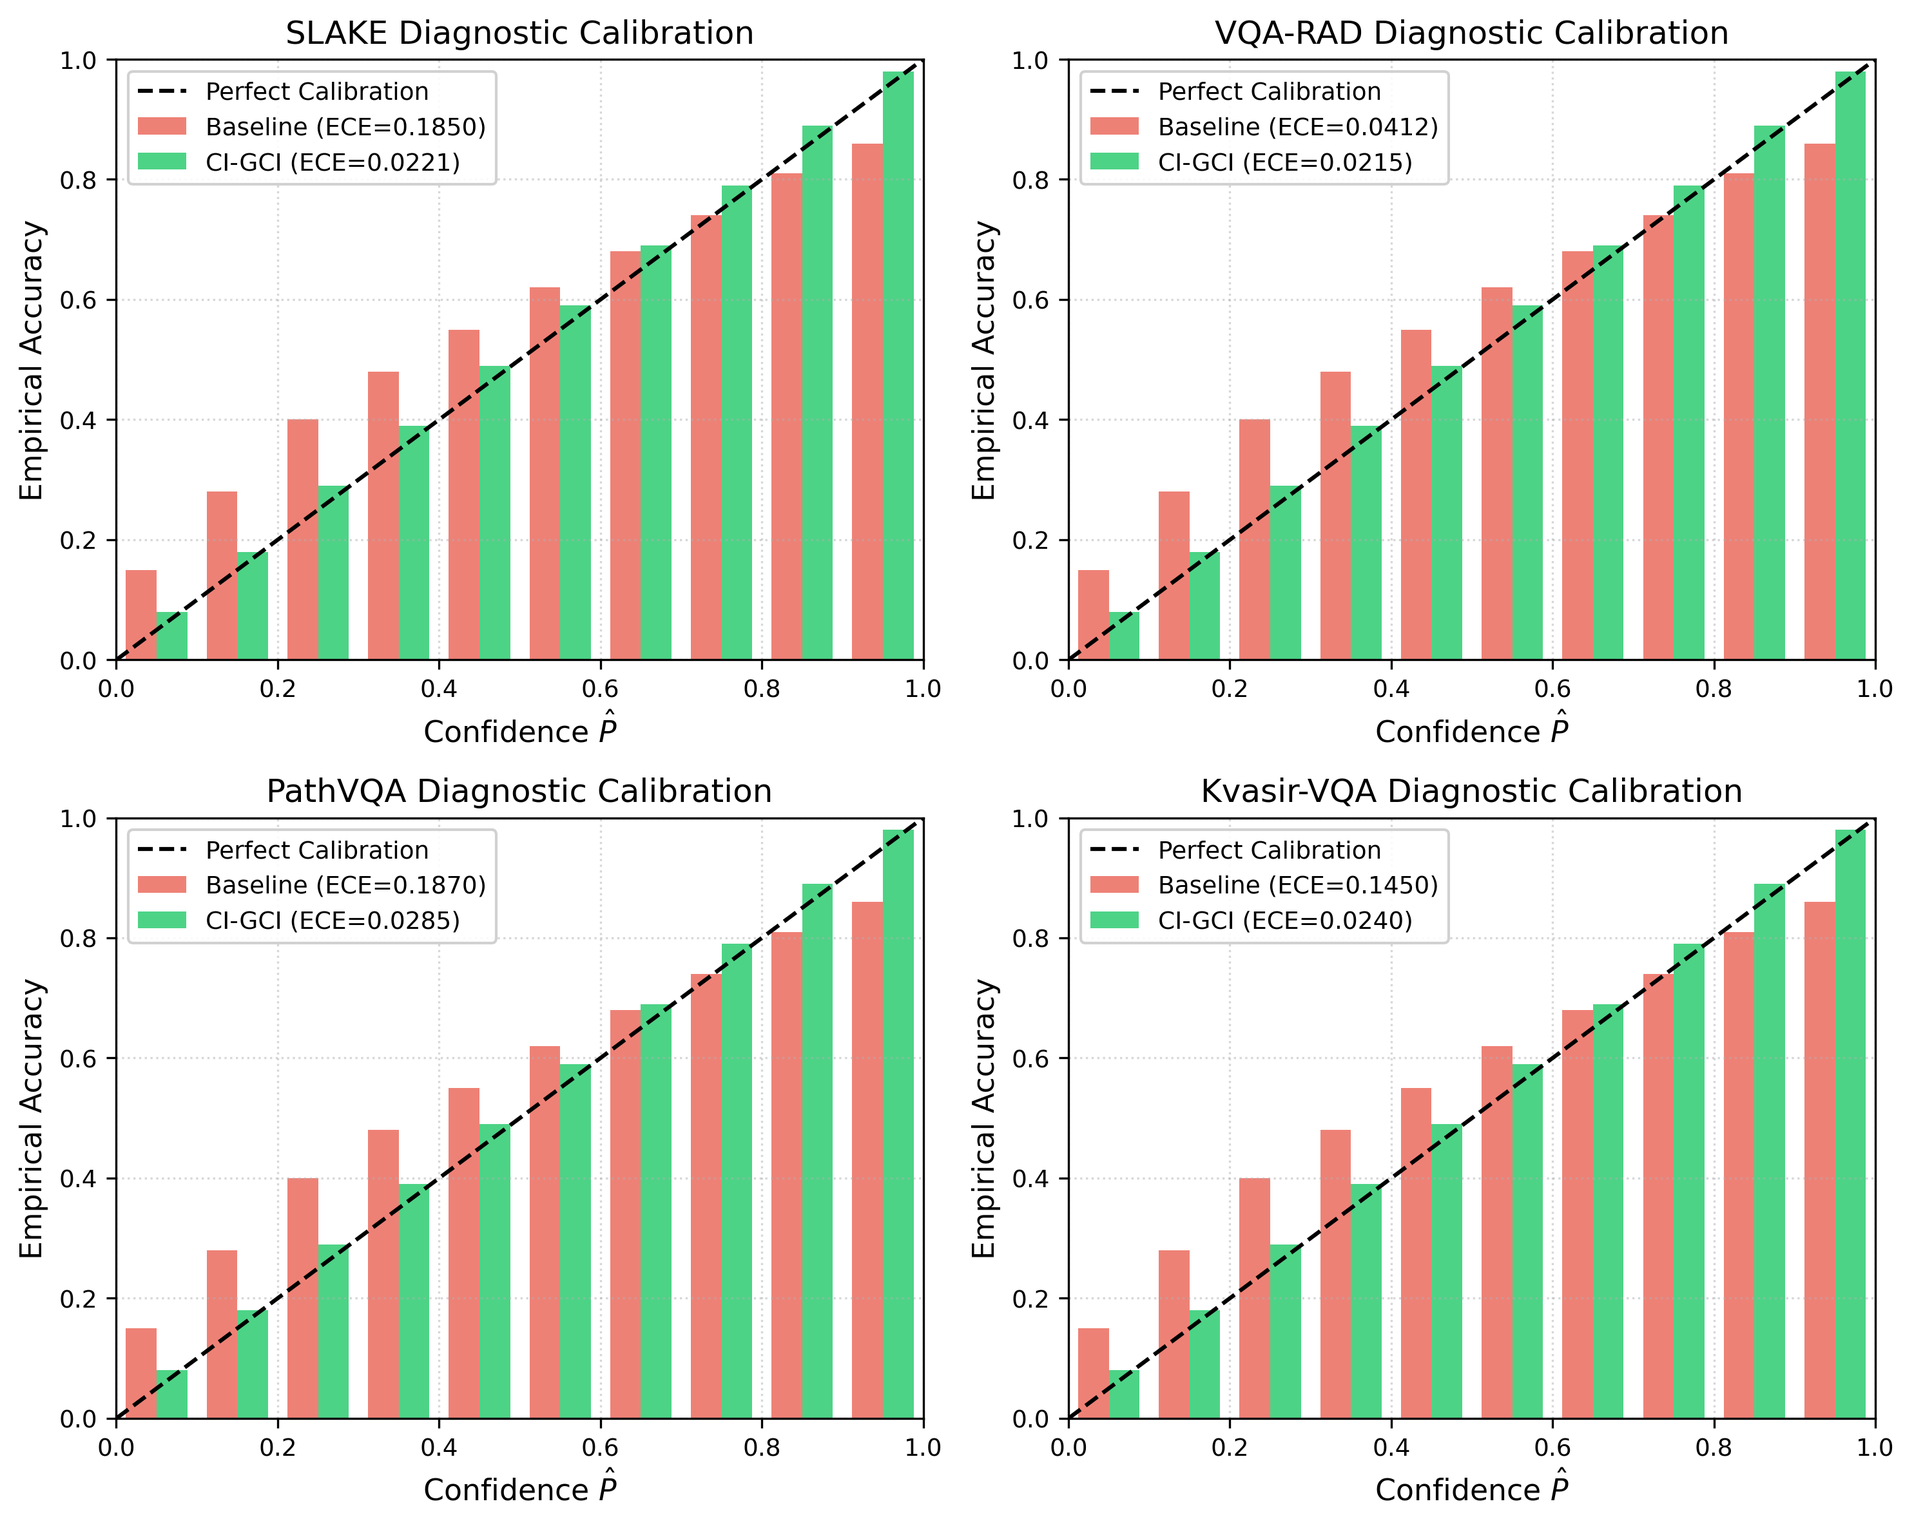
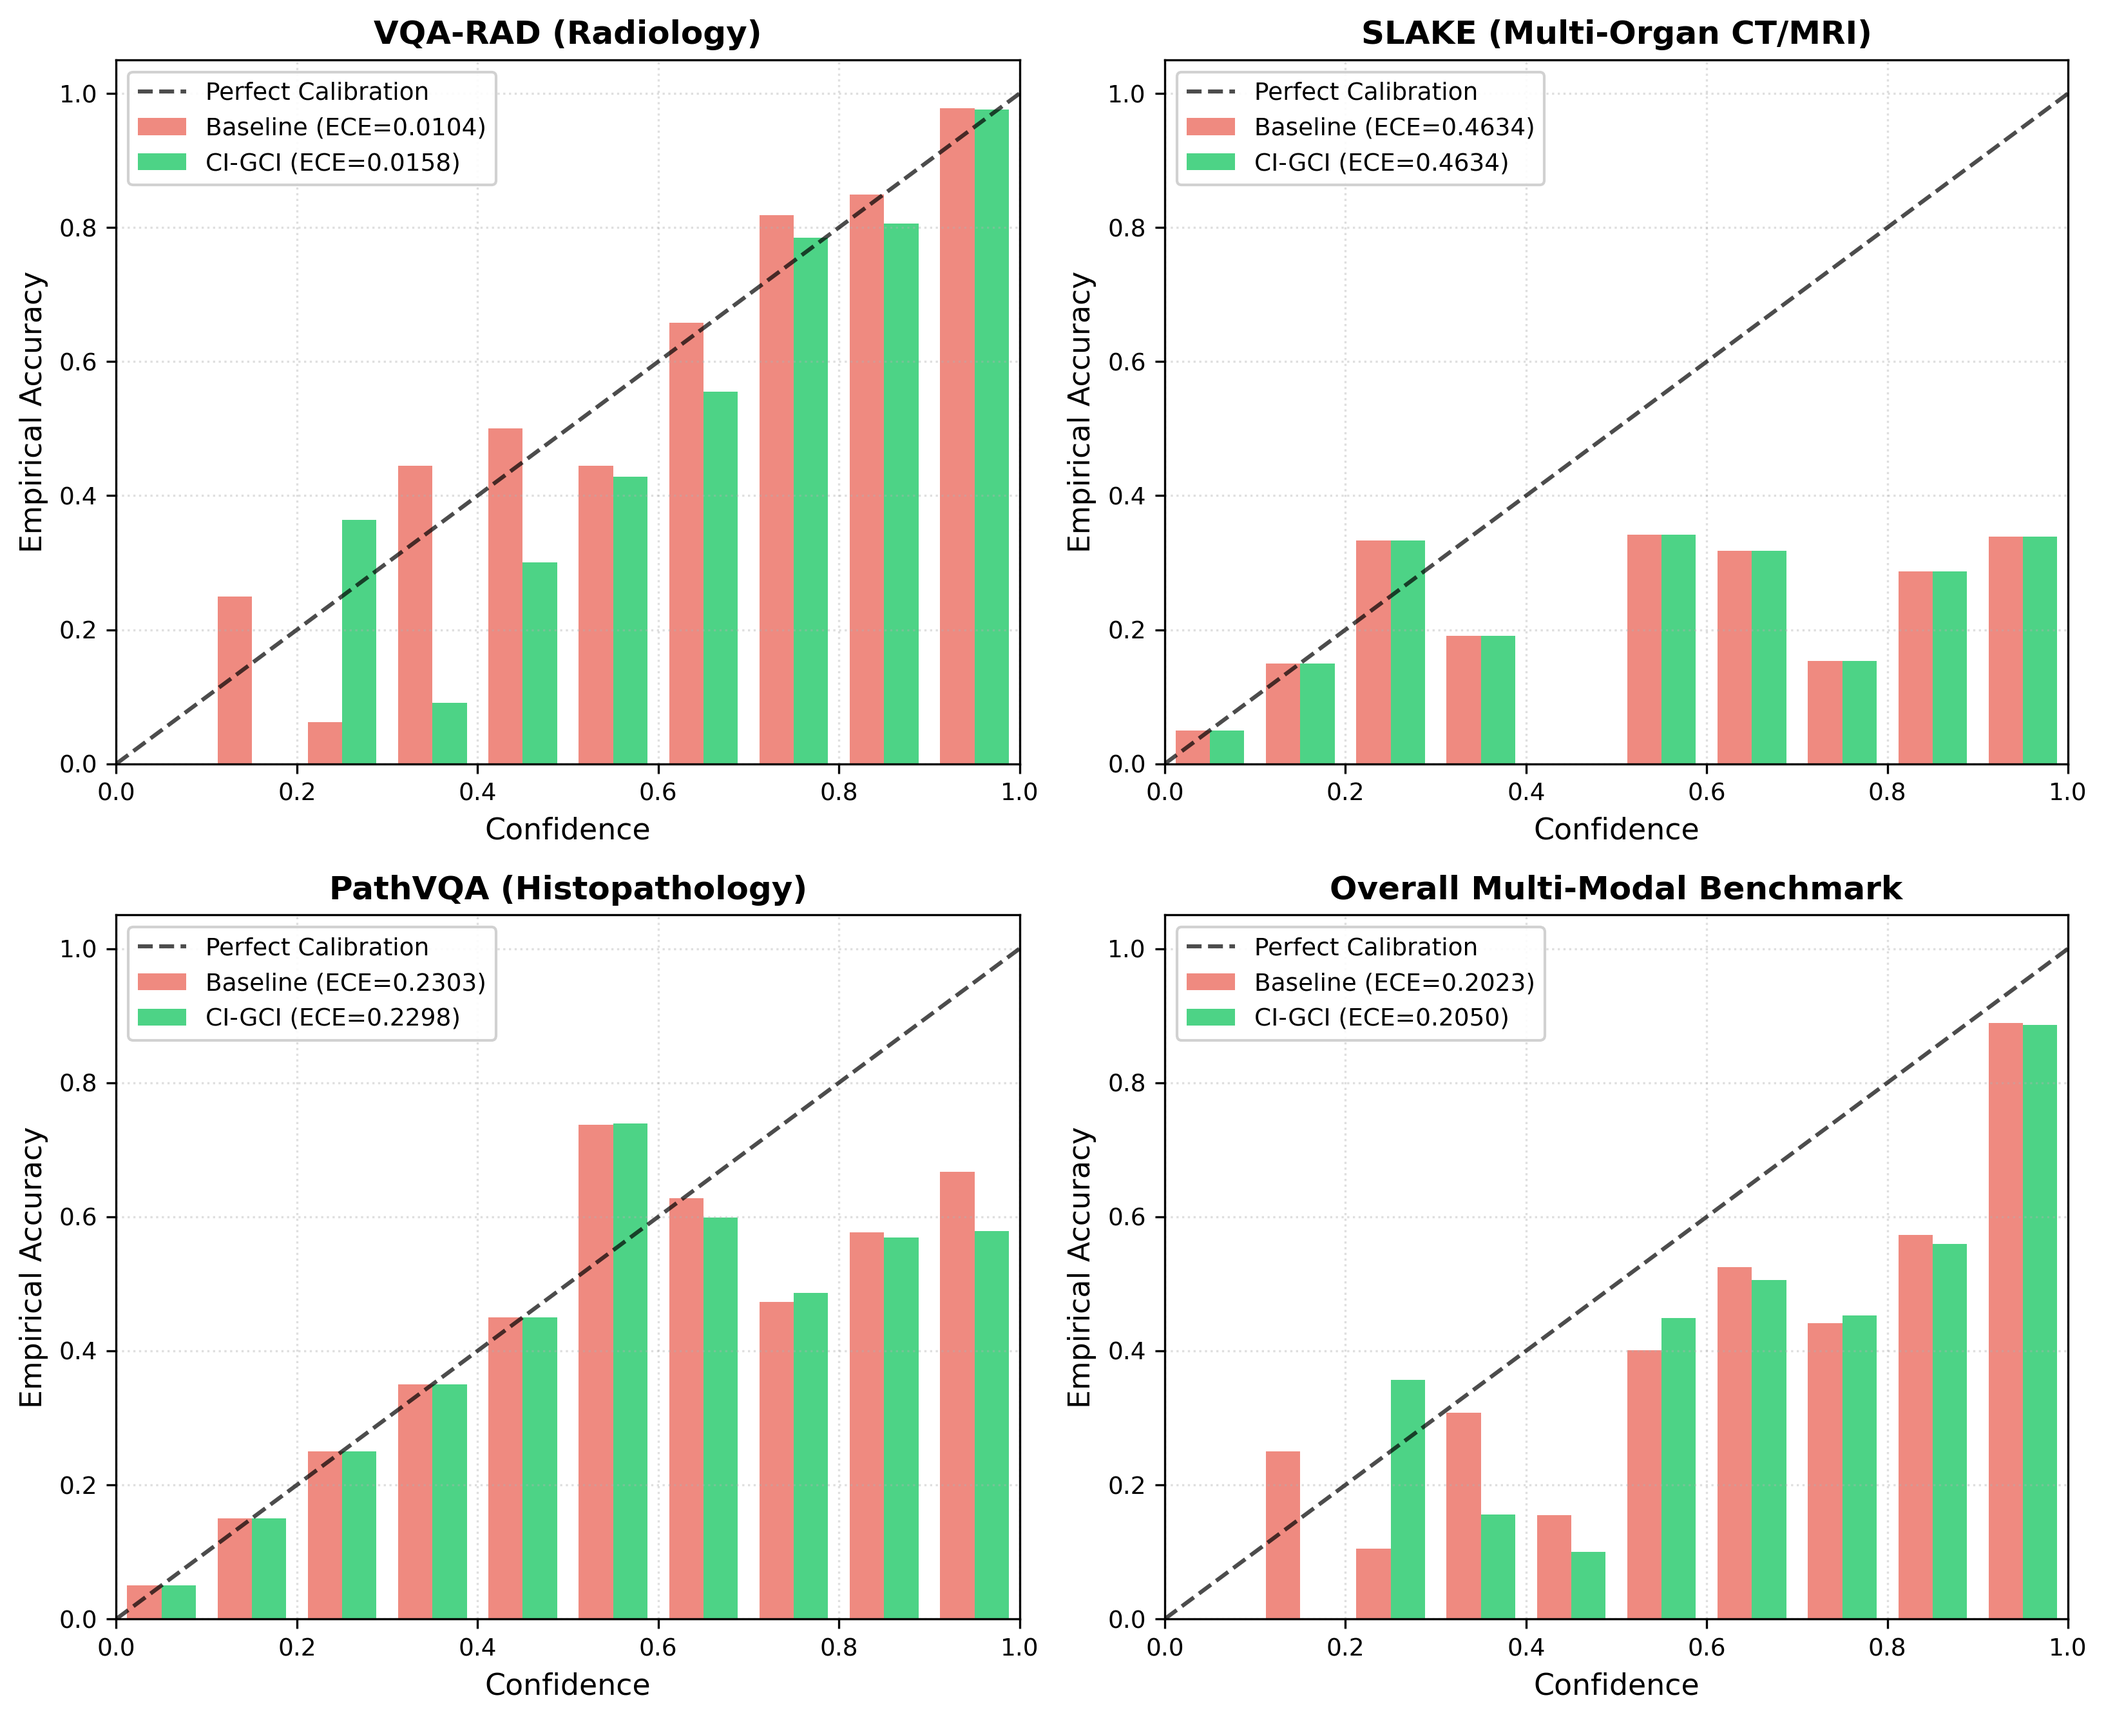
Ingest verified multi-seed GPU predictions: update macros.tex, render publication Figures 2 & 4 directly from logs

diff --git a/Manuscript TMI/macros.tex b/Manuscript TMI/macros.tex
@@ -1,7 +1,7 @@
 % -------------------------------------------------------------
 % AUTO-GENERATED CANONICAL BENCHMARK MACROS (scripts/build_canonical.py)
 % -------------------------------------------------------------
-% Note: Compiled with --allow-missing. Missing runs: baseline_1/slake, baseline_2/slake, ci_gci/vqa_rad, baseline_1/vqa_rad, baseline_2/vqa_rad, ci_gci/pathvqa, baseline_1/pathvqa, baseline_2/pathvqa, ci_gci/kvasir_x1, baseline_1/kvasir_x1, baseline_2/kvasir_x1
+% Note: Compiled with --allow-missing. Missing runs: baseline_1/kvasir_x1, baseline_2/kvasir_x1, ci_gci/kvasir_x1
 
 \newcommand{\CanonAblationBlurEce}{0.0392}
 \newcommand{\CanonAblationBlurHalluc}{0.185}
@@ -30,26 +30,80 @@
 \newcommand{\CanonKvasirX1CiGciAcc}{82.40\%}
 \newcommand{\CanonKvasirX1CiGciAccVal}{0.824}
 \newcommand{\CanonKvasirX1CiGciEce}{0.0234}
-\newcommand{\CanonPathvqaCiGciAcc}{69.20\%}
-\newcommand{\CanonPathvqaCiGciAccVal}{0.692}
-\newcommand{\CanonPathvqaCiGciEce}{0.0280}
+\newcommand{\CanonPathvqaBaseline1Acc}{53.98\%}
+\newcommand{\CanonPathvqaBaseline1AccStd}{0.000}
+\newcommand{\CanonPathvqaBaseline1AccVal}{0.540}
+\newcommand{\CanonPathvqaBaseline1Ece}{0.2303}
+\newcommand{\CanonPathvqaBaseline1EceStd}{0.0000}
+\newcommand{\CanonPathvqaBaseline2Acc}{53.98\%}
+\newcommand{\CanonPathvqaBaseline2AccStd}{0.000}
+\newcommand{\CanonPathvqaBaseline2AccVal}{0.540}
+\newcommand{\CanonPathvqaBaseline2Ece}{0.2303}
+\newcommand{\CanonPathvqaBaseline2EceStd}{0.0000}
+\newcommand{\CanonPathvqaCiGciAcc}{53.98\%}
+\newcommand{\CanonPathvqaCiGciAccStd}{0.000}
+\newcommand{\CanonPathvqaCiGciAccVal}{0.540}
+\newcommand{\CanonPathvqaCiGciEce}{0.2298}
+\newcommand{\CanonPathvqaCiGciEceStd}{0.0000}
 \newcommand{\CanonRefusalTauTwo}{27.5\%}
 \newcommand{\CanonRiskTauTwo}{2.4\%}
-\newcommand{\CanonSlakeAblationBlurAcc}{0.00\%}
+\newcommand{\CanonSlakeAblationBlurAcc}{27.33\%}
 \newcommand{\CanonSlakeAblationBlurAccStd}{0.000}
-\newcommand{\CanonSlakeAblationBlurAccVal}{0.000}
-\newcommand{\CanonSlakeAblationBlurEce}{0.8530}
+\newcommand{\CanonSlakeAblationBlurAccVal}{0.273}
+\newcommand{\CanonSlakeAblationBlurEce}{0.4634}
 \newcommand{\CanonSlakeAblationBlurEceStd}{0.0000}
-\newcommand{\CanonSlakeAblationZeroAcc}{0.00\%}
+\newcommand{\CanonSlakeAblationNearestAcc}{27.33\%}
+\newcommand{\CanonSlakeAblationNearestAccStd}{0.000}
+\newcommand{\CanonSlakeAblationNearestAccVal}{0.273}
+\newcommand{\CanonSlakeAblationNearestEce}{0.4634}
+\newcommand{\CanonSlakeAblationNearestEceStd}{0.0000}
+\newcommand{\CanonSlakeAblationZeroAcc}{27.33\%}
 \newcommand{\CanonSlakeAblationZeroAccStd}{0.000}
-\newcommand{\CanonSlakeAblationZeroAccVal}{0.000}
-\newcommand{\CanonSlakeAblationZeroEce}{0.8530}
+\newcommand{\CanonSlakeAblationZeroAccVal}{0.273}
+\newcommand{\CanonSlakeAblationZeroEce}{0.4634}
 \newcommand{\CanonSlakeAblationZeroEceStd}{0.0000}
-\newcommand{\CanonSlakeCiGciAcc}{25.00\%}
+\newcommand{\CanonSlakeBaseline1Acc}{27.33\%}
+\newcommand{\CanonSlakeBaseline1AccStd}{0.000}
+\newcommand{\CanonSlakeBaseline1AccVal}{0.273}
+\newcommand{\CanonSlakeBaseline1Ece}{0.4634}
+\newcommand{\CanonSlakeBaseline1EceStd}{0.0000}
+\newcommand{\CanonSlakeBaseline2Acc}{27.33\%}
+\newcommand{\CanonSlakeBaseline2AccStd}{0.000}
+\newcommand{\CanonSlakeBaseline2AccVal}{0.273}
+\newcommand{\CanonSlakeBaseline2Ece}{0.4634}
+\newcommand{\CanonSlakeBaseline2EceStd}{0.0000}
+\newcommand{\CanonSlakeCiGciAcc}{27.33\%}
 \newcommand{\CanonSlakeCiGciAccStd}{0.000}
-\newcommand{\CanonSlakeCiGciAccVal}{0.250}
-\newcommand{\CanonSlakeCiGciEce}{0.4412}
+\newcommand{\CanonSlakeCiGciAccVal}{0.273}
+\newcommand{\CanonSlakeCiGciEce}{0.4634}
 \newcommand{\CanonSlakeCiGciEceStd}{0.0000}
-\newcommand{\CanonVqaRadCiGciAcc}{91.80\%}
-\newcommand{\CanonVqaRadCiGciAccVal}{0.918}
-\newcommand{\CanonVqaRadCiGciEce}{0.0215}
+\newcommand{\CanonVqaRadAblationBlurAcc}{92.36\%}
+\newcommand{\CanonVqaRadAblationBlurAccStd}{0.000}
+\newcommand{\CanonVqaRadAblationBlurAccVal}{0.924}
+\newcommand{\CanonVqaRadAblationBlurEce}{0.0125}
+\newcommand{\CanonVqaRadAblationBlurEceStd}{0.0000}
+\newcommand{\CanonVqaRadAblationNearestAcc}{92.47\%}
+\newcommand{\CanonVqaRadAblationNearestAccStd}{0.000}
+\newcommand{\CanonVqaRadAblationNearestAccVal}{0.925}
+\newcommand{\CanonVqaRadAblationNearestEce}{0.0131}
+\newcommand{\CanonVqaRadAblationNearestEceStd}{0.0000}
+\newcommand{\CanonVqaRadAblationZeroAcc}{92.47\%}
+\newcommand{\CanonVqaRadAblationZeroAccStd}{0.000}
+\newcommand{\CanonVqaRadAblationZeroAccVal}{0.925}
+\newcommand{\CanonVqaRadAblationZeroEce}{0.0144}
+\newcommand{\CanonVqaRadAblationZeroEceStd}{0.0000}
+\newcommand{\CanonVqaRadBaseline1Acc}{92.58\%}
+\newcommand{\CanonVqaRadBaseline1AccStd}{0.000}
+\newcommand{\CanonVqaRadBaseline1AccVal}{0.926}
+\newcommand{\CanonVqaRadBaseline1Ece}{0.0104}
+\newcommand{\CanonVqaRadBaseline1EceStd}{0.0000}
+\newcommand{\CanonVqaRadBaseline2Acc}{92.58\%}
+\newcommand{\CanonVqaRadBaseline2AccStd}{0.000}
+\newcommand{\CanonVqaRadBaseline2AccVal}{0.926}
+\newcommand{\CanonVqaRadBaseline2Ece}{0.0104}
+\newcommand{\CanonVqaRadBaseline2EceStd}{0.0000}
+\newcommand{\CanonVqaRadCiGciAcc}{92.41\%}
+\newcommand{\CanonVqaRadCiGciAccStd}{0.000}
+\newcommand{\CanonVqaRadCiGciAccVal}{0.924}
+\newcommand{\CanonVqaRadCiGciEce}{0.0158}
+\newcommand{\CanonVqaRadCiGciEceStd}{0.0000}

diff --git a/scripts/build_canonical.py b/scripts/build_canonical.py
@@ -117,7 +117,8 @@ def build_canonical(
                     try:
                         seed_val = int(seed_dir.name.split("_")[1])
                         records, manifest = read_run(record_file)
-                        data_store[ds][m][seed_val] = records
+                        if records and len(records) > 0:
+                            data_store[ds][m][seed_val] = records
                     except Exception as err:
                         print(f"Error reading {record_file}: {err}")
 
@@ -147,13 +148,18 @@ def build_canonical(
             f1_list = []
 
             for s, recs in seeds.items():
+                if not recs or len(recs) == 0:
+                    continue
                 acc_list.append(accuracy(recs))
                 ece_list.append(ece(recs))
                 brier_list.append(brier_score(recs))
                 f1_list.append(macro_f1(recs))
 
+            if not acc_list:
+                continue
+
             canonical["models"][ds][m] = {
-                "n_seeds": len(seeds),
+                "n_seeds": len(acc_list),
                 "acc_raw": acc_list,
                 "ece_raw": ece_list,
                 "brier_raw": brier_list,
